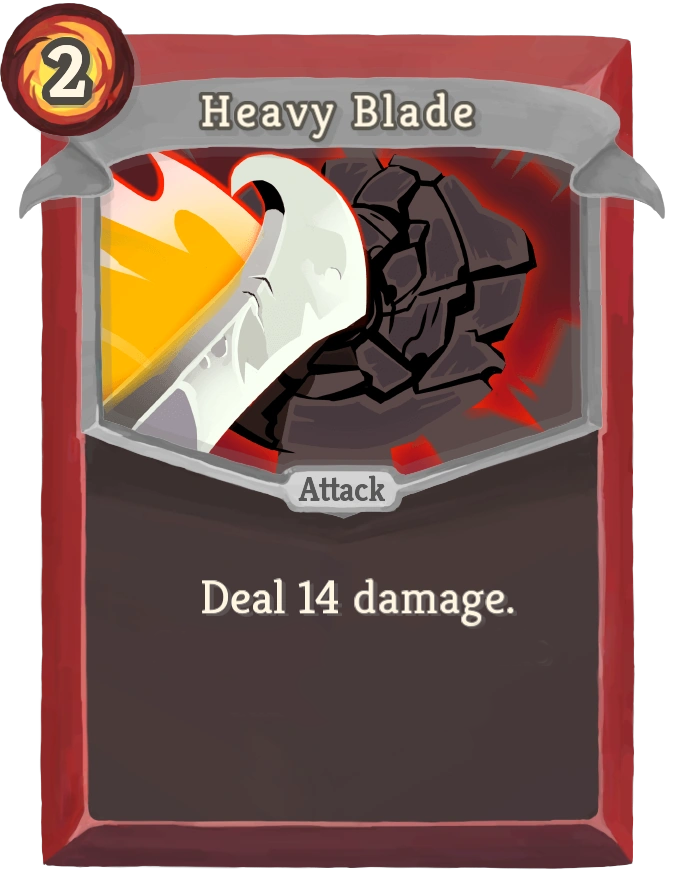
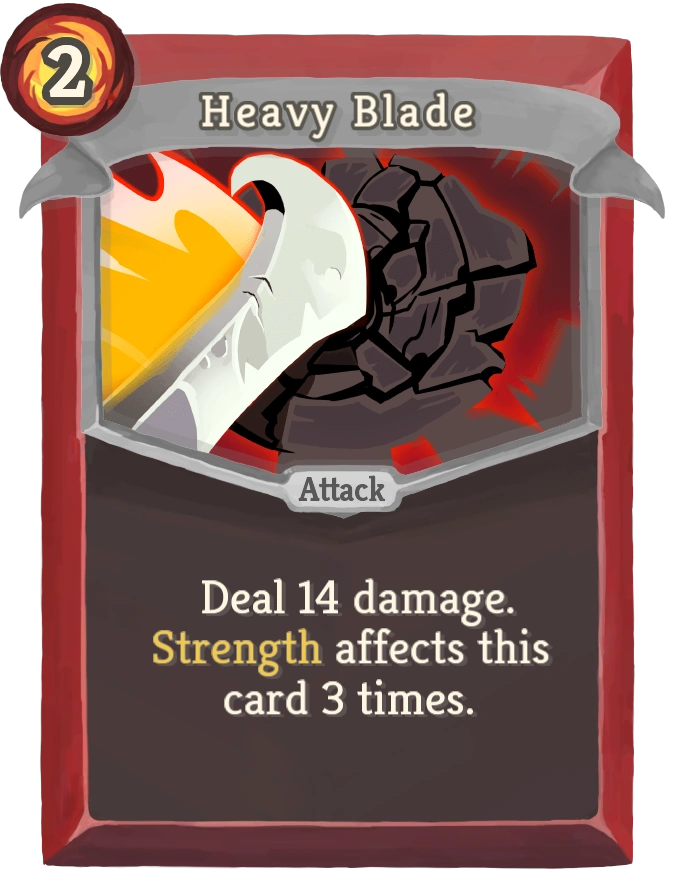
fixed #77

Changed region(s): [[0.2168, 0.7105, 0.7124, 0.8341], [0.7124, 0.7105, 0.8053, 0.7723]]

diff --git a/src/main/java/de/bundeswehr/auf/slaythespire/model/card/ironclad/attack/common/HeavyBladeCard.java b/src/main/java/de/bundeswehr/auf/slaythespire/model/card/ironclad/attack/common/HeavyBladeCard.java
@@ -1,9 +1,15 @@
 package de.bundeswehr.auf.slaythespire.model.card.ironclad.attack.common;
 
 import de.bundeswehr.auf.slaythespire.helper.PathAssistent;
+import de.bundeswehr.auf.slaythespire.model.battle.GameContext;
 import de.bundeswehr.auf.slaythespire.model.card.structure.AttackCard;
 import de.bundeswehr.auf.slaythespire.model.card.structure.CardGrave;
 import de.bundeswehr.auf.slaythespire.model.card.structure.CardRarity;
+import de.bundeswehr.auf.slaythespire.model.effect.buff.StrengthBuff;
+import de.bundeswehr.auf.slaythespire.model.effect.structure.Effect;
+import de.bundeswehr.auf.slaythespire.model.player.structure.Player;
+
+import java.util.Map;
 
 /**
  * Die Heavy blade Karte.
@@ -15,8 +21,18 @@ public class HeavyBladeCard extends AttackCard {
      * Constructor HeavyBladeCard
      */
     public HeavyBladeCard() {
-        super("Heavy Blade", "Deal 14 damage.", 2, 14, CardRarity.COMMON, CardGrave.DISCARD);
+        super("Heavy Blade", "Deal 14 damage. Strength affects this card 3 times.", 2, 14, CardRarity.COMMON, CardGrave.DISCARD);
         setImagePath(new PathAssistent().toPath(this));
+    }
+
+    @Override
+    public void play(GameContext gameContext) {
+        Player player = gameContext.getPlayer();
+        Map<Effect, Integer> effects = player.getEffects();
+        StrengthBuff key = new StrengthBuff();
+        effects.put(key, effects.getOrDefault(key, 0) * 3);
+        super.play(gameContext);
+        effects.put(key, effects.getOrDefault(key, 0) / 3);
     }
 
 }
